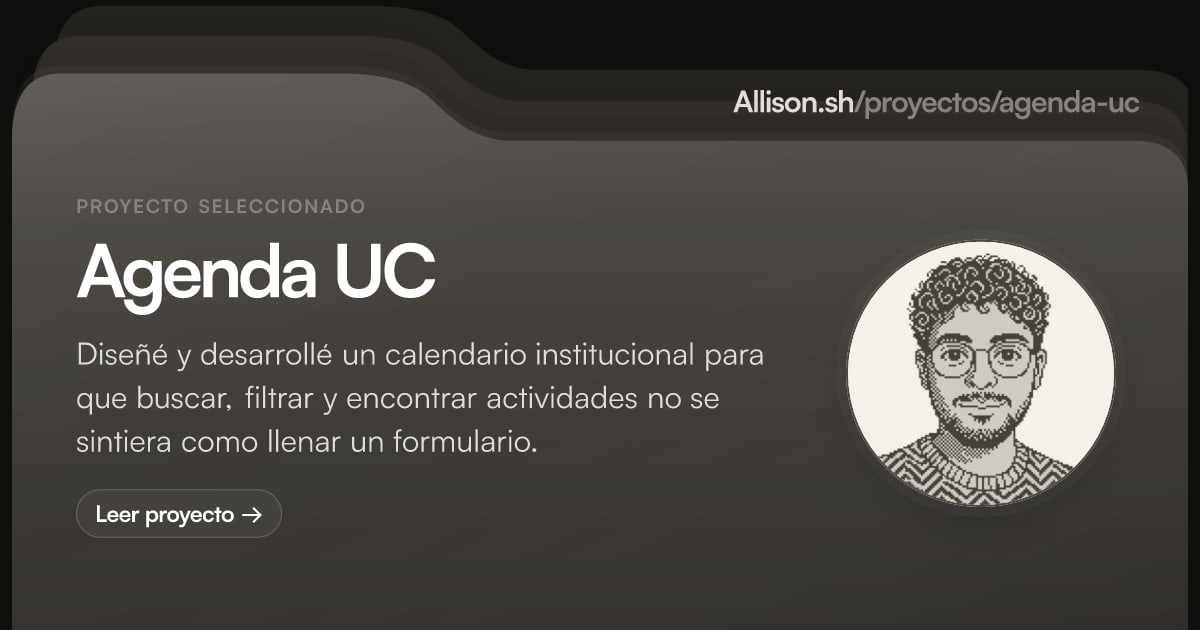
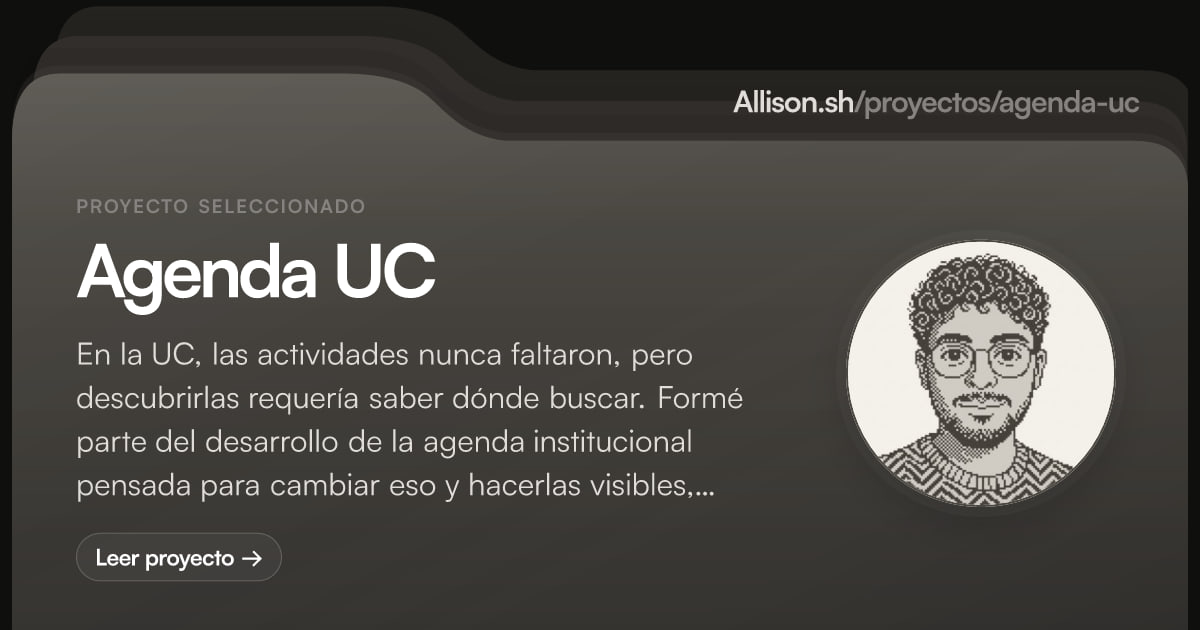
feat(site): proyectos en home, redirect /proyectos, layout y tipografía
- Redirige /proyectos y /proyectos/ a /#proyectos; elimina la página índice; ajusta sitemap.
- Muestra todos los proyectos en el stack de la home con título mono «Proyectos destacados».
- Oculta el año en carpetas del stack; el año queda en la cabecera del single.
- Single: sin párrafo duplicado de descripción; volver al inicio; bloque siguiente con descripción y misma carpeta que en home; móvil con previews siempre abiertas (alwaysOpenPreviewsMobile + cliente).
- Escala tipográfica mínima ~14px; polaroid y burbuja del avatar coherentes.
- Frontmatter: año obligatorio y rangos en proyectos; chips y estilos varios.

Made-with: Cursor

diff --git a/src/scripts/project-folder-stack-client.ts b/src/scripts/project-folder-stack-client.ts
@@ -67,6 +67,9 @@ function setupProjectFolderStacks() {
       const ac = new AbortController();
       runtime.controllers.push(ac);
 
+      const alwaysOpenPreviewsMobile =
+        mobileMql.matches && stack.hasAttribute('data-always-open-previews-mobile');
+
       if (!reducedMotionMql.matches && !mobileMql.matches) {
         stack.classList.add('is-pre');
 
@@ -241,9 +244,15 @@ function setupProjectFolderStacks() {
 
       items.forEach((item, index) => {
         item.style.setProperty('--i', String(index));
-        item.dataset.previewOpen = 'false';
-        item.dataset.previewState = 'closed';
-        item.dataset.active = 'false';
+        if (alwaysOpenPreviewsMobile) {
+          item.dataset.previewOpen = 'true';
+          item.dataset.previewState = 'closed';
+          item.dataset.active = 'true';
+        } else {
+          item.dataset.previewOpen = 'false';
+          item.dataset.previewState = 'closed';
+          item.dataset.active = 'false';
+        }
 
         const link = item.querySelector('.project-folder-card__link');
         if (!(link instanceof HTMLElement)) return;
@@ -282,6 +291,15 @@ function setupProjectFolderStacks() {
           closeTimers.clear();
           previewStateTimers.forEach((timer) => window.clearTimeout(timer));
           previewStateTimers.clear();
+        });
+        return;
+      }
+
+      if (alwaysOpenPreviewsMobile) {
+        items.forEach((item) => {
+          ensurePreviewLoaded(item);
+          item.dataset.previewOpen = 'true';
+          item.dataset.active = 'true';
         });
         return;
       }

diff --git a/src/scripts/speech-bubble.ts b/src/scripts/speech-bubble.ts
@@ -407,8 +407,8 @@ export class SpeechBubble {
 
     return {
       isMobile,
-      font: isMobile ? '400 13px Inter' : '400 14px Inter',
-      lineHeight: isMobile ? 18.2 : 20.3,
+      font: '400 14px Inter',
+      lineHeight: 20.3,
       paddingX: isMobile ? 14 : 16,
       paddingY: isMobile ? 9 : 10,
       maxWidthCap: isMobile ? 228 : 280,
@@ -875,8 +875,6 @@ export class SpeechBubble {
       .avatar-speech-bubble__inner {
         max-width: min(228px, calc(100vw - 24px));
         padding: 9px 14px;
-        font-size: 0.8125rem;
-        line-height: 1.4;
       }
     }
 

diff --git a/src/styles/global.css b/src/styles/global.css
@@ -161,8 +161,9 @@ body {
 }
 
 @theme {
-  --text-xs: 0.75rem;
-  --text-sm: 0.875rem;
+  /* Floor: smallest scale step is 14px; `text-sm` stays one step up. */
+  --text-xs: 0.875rem;
+  --text-sm: 0.9375rem;
   --text-base: 1rem;
   --text-lg: 1.125rem;
   --text-xl: 1.375rem;
@@ -549,8 +550,8 @@ html.dark #theme-toggle .moon-icon {
   right: 8px;
   bottom: 8px;
   font-family: var(--font-mono);
-  font-size: 0.5625rem;
-  line-height: 1.3;
+  font-size: 0.875rem;
+  line-height: 1.35;
   color: var(--color-subtle);
 }
 

diff --git a/src/pages/sitemap.xml.ts b/src/pages/sitemap.xml.ts
@@ -14,11 +14,7 @@ function escapeXml(value: string) {
 export const GET: APIRoute = async ({ site }) => {
   const base = site ?? new URL(SITE_URL);
   const proyectos = await getCollection('proyectos');
-  const urls = [
-    '/',
-    '/proyectos/',
-    ...proyectos.map((entry) => `/proyectos/${entry.id}/`),
-  ];
+  const urls = ['/', ...proyectos.map((entry) => `/proyectos/${entry.id}/`)];
 
   const body = `<?xml version="1.0" encoding="UTF-8"?>
 <urlset xmlns="http://www.sitemaps.org/schemas/sitemap/0.9">

diff --git a/src/content.config.ts b/src/content.config.ts
@@ -8,7 +8,7 @@ const proyectos = defineCollection({
     description: z.string(),
     cover: image(),
     previewImages: z.array(image()).min(1).max(3),
-    year: z.string().optional(),
+    year: z.string().min(1),
     tech: z.array(z.string()).optional(),
   }),
 });
